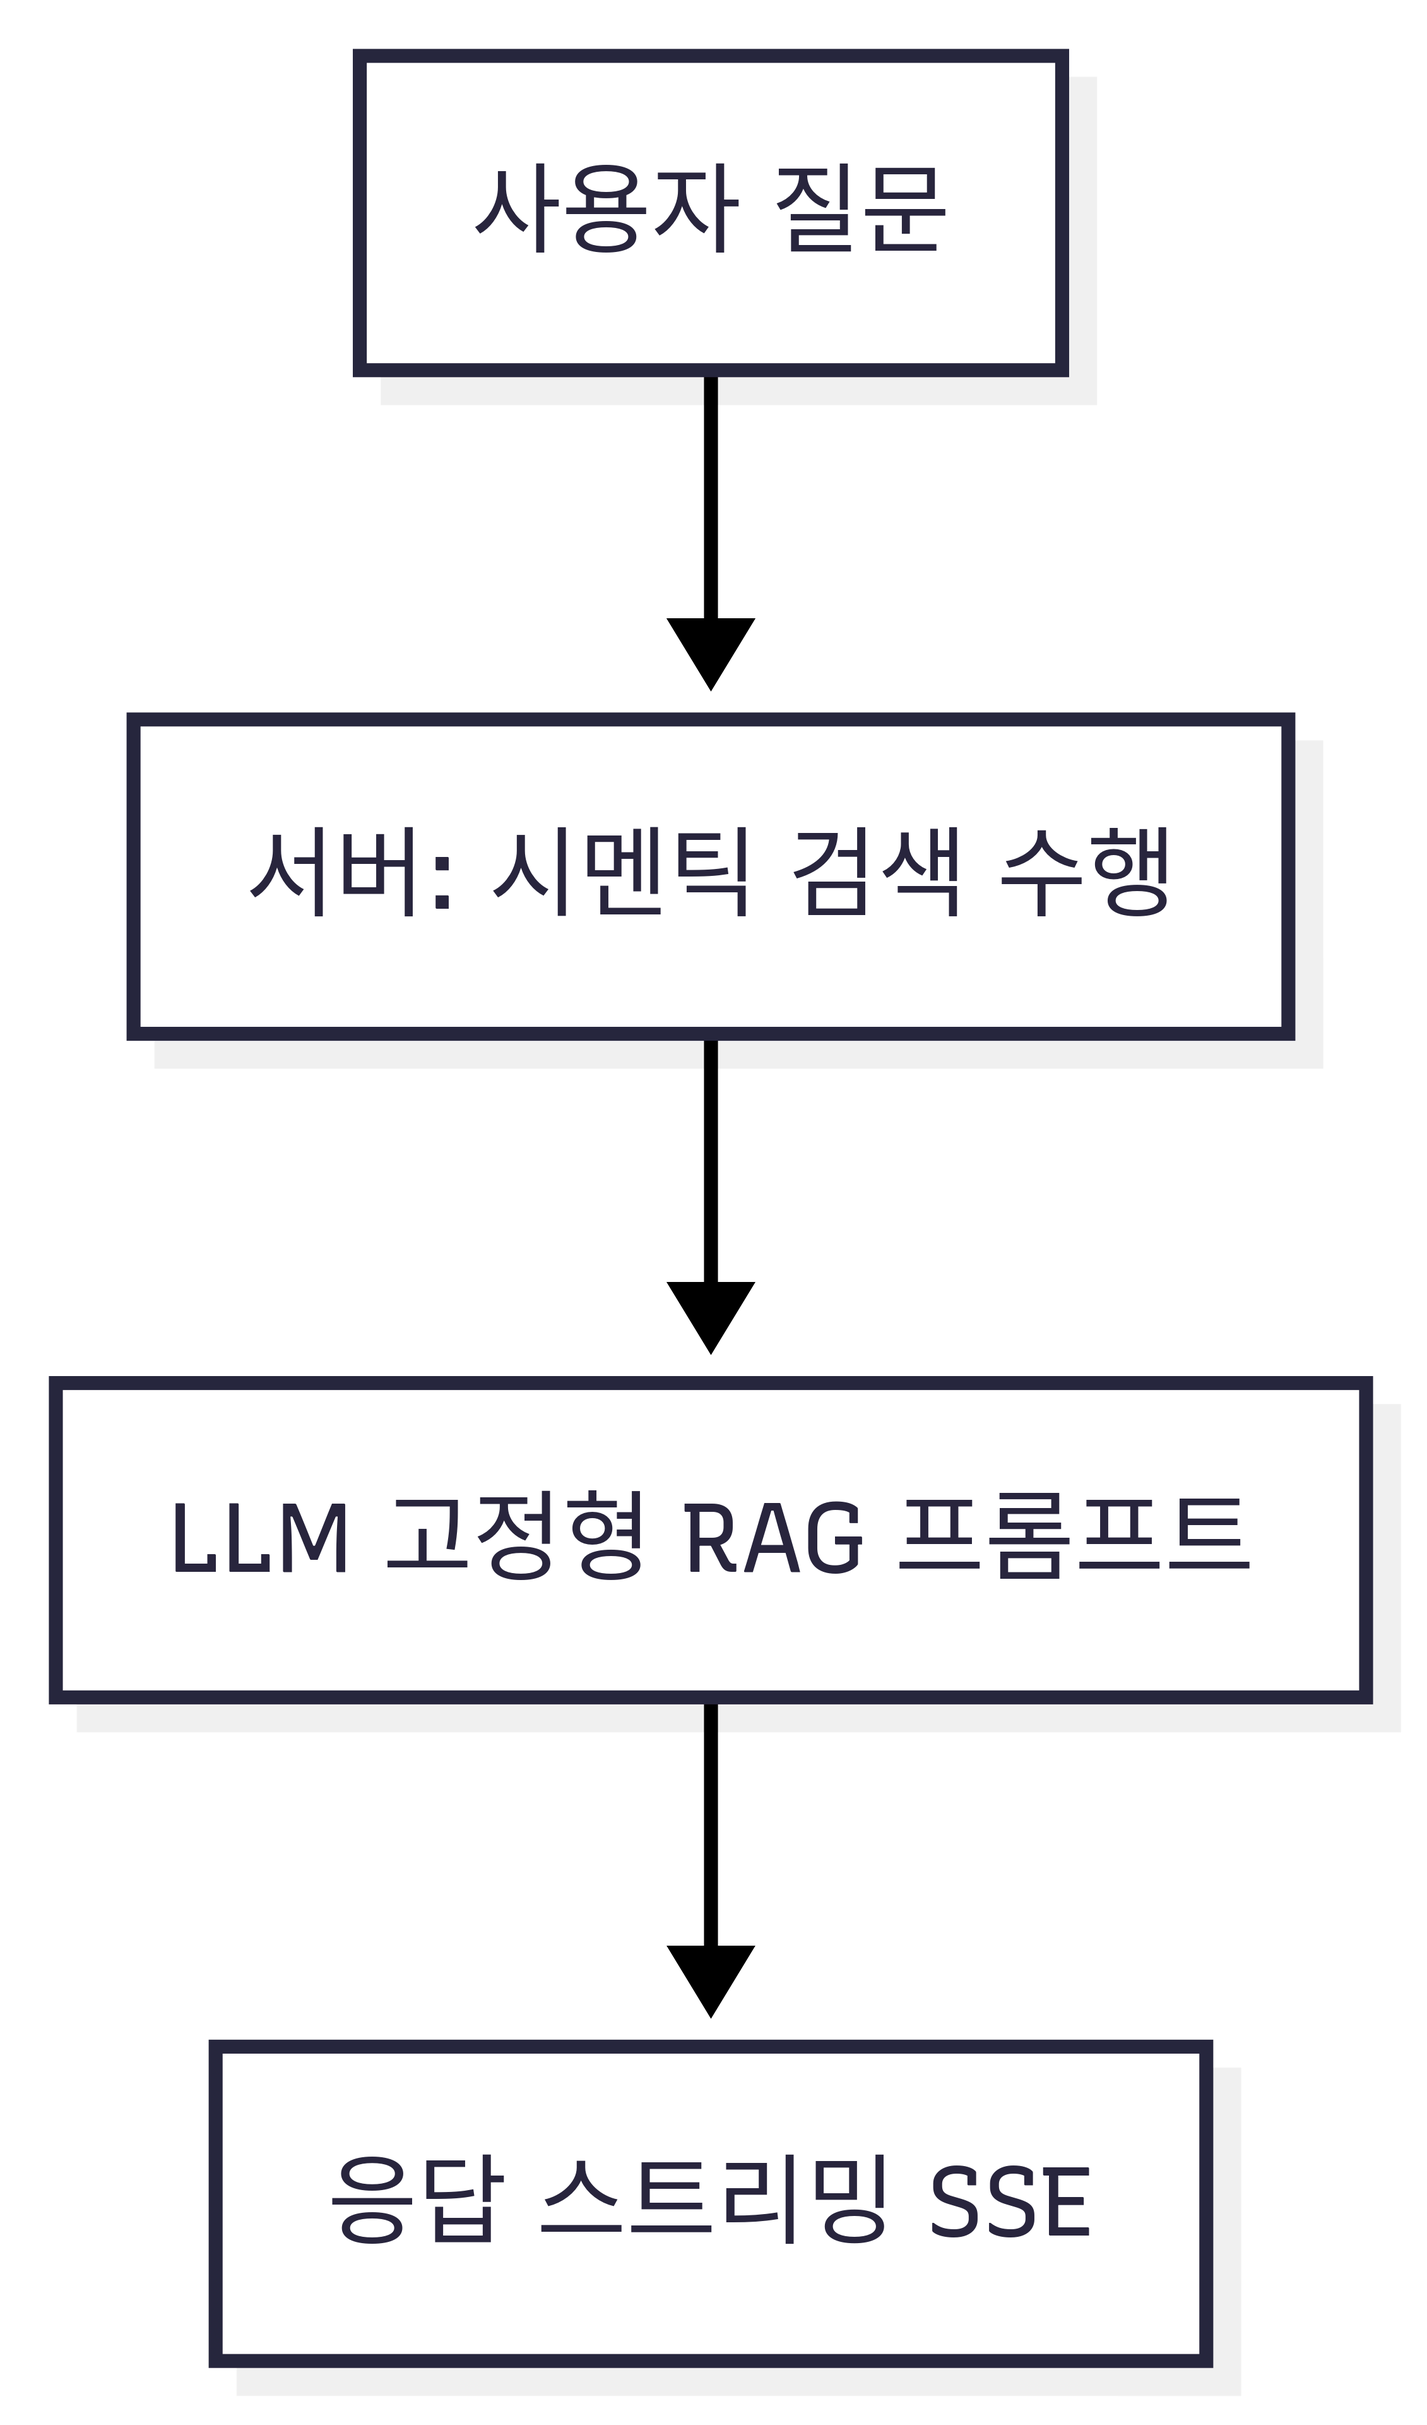
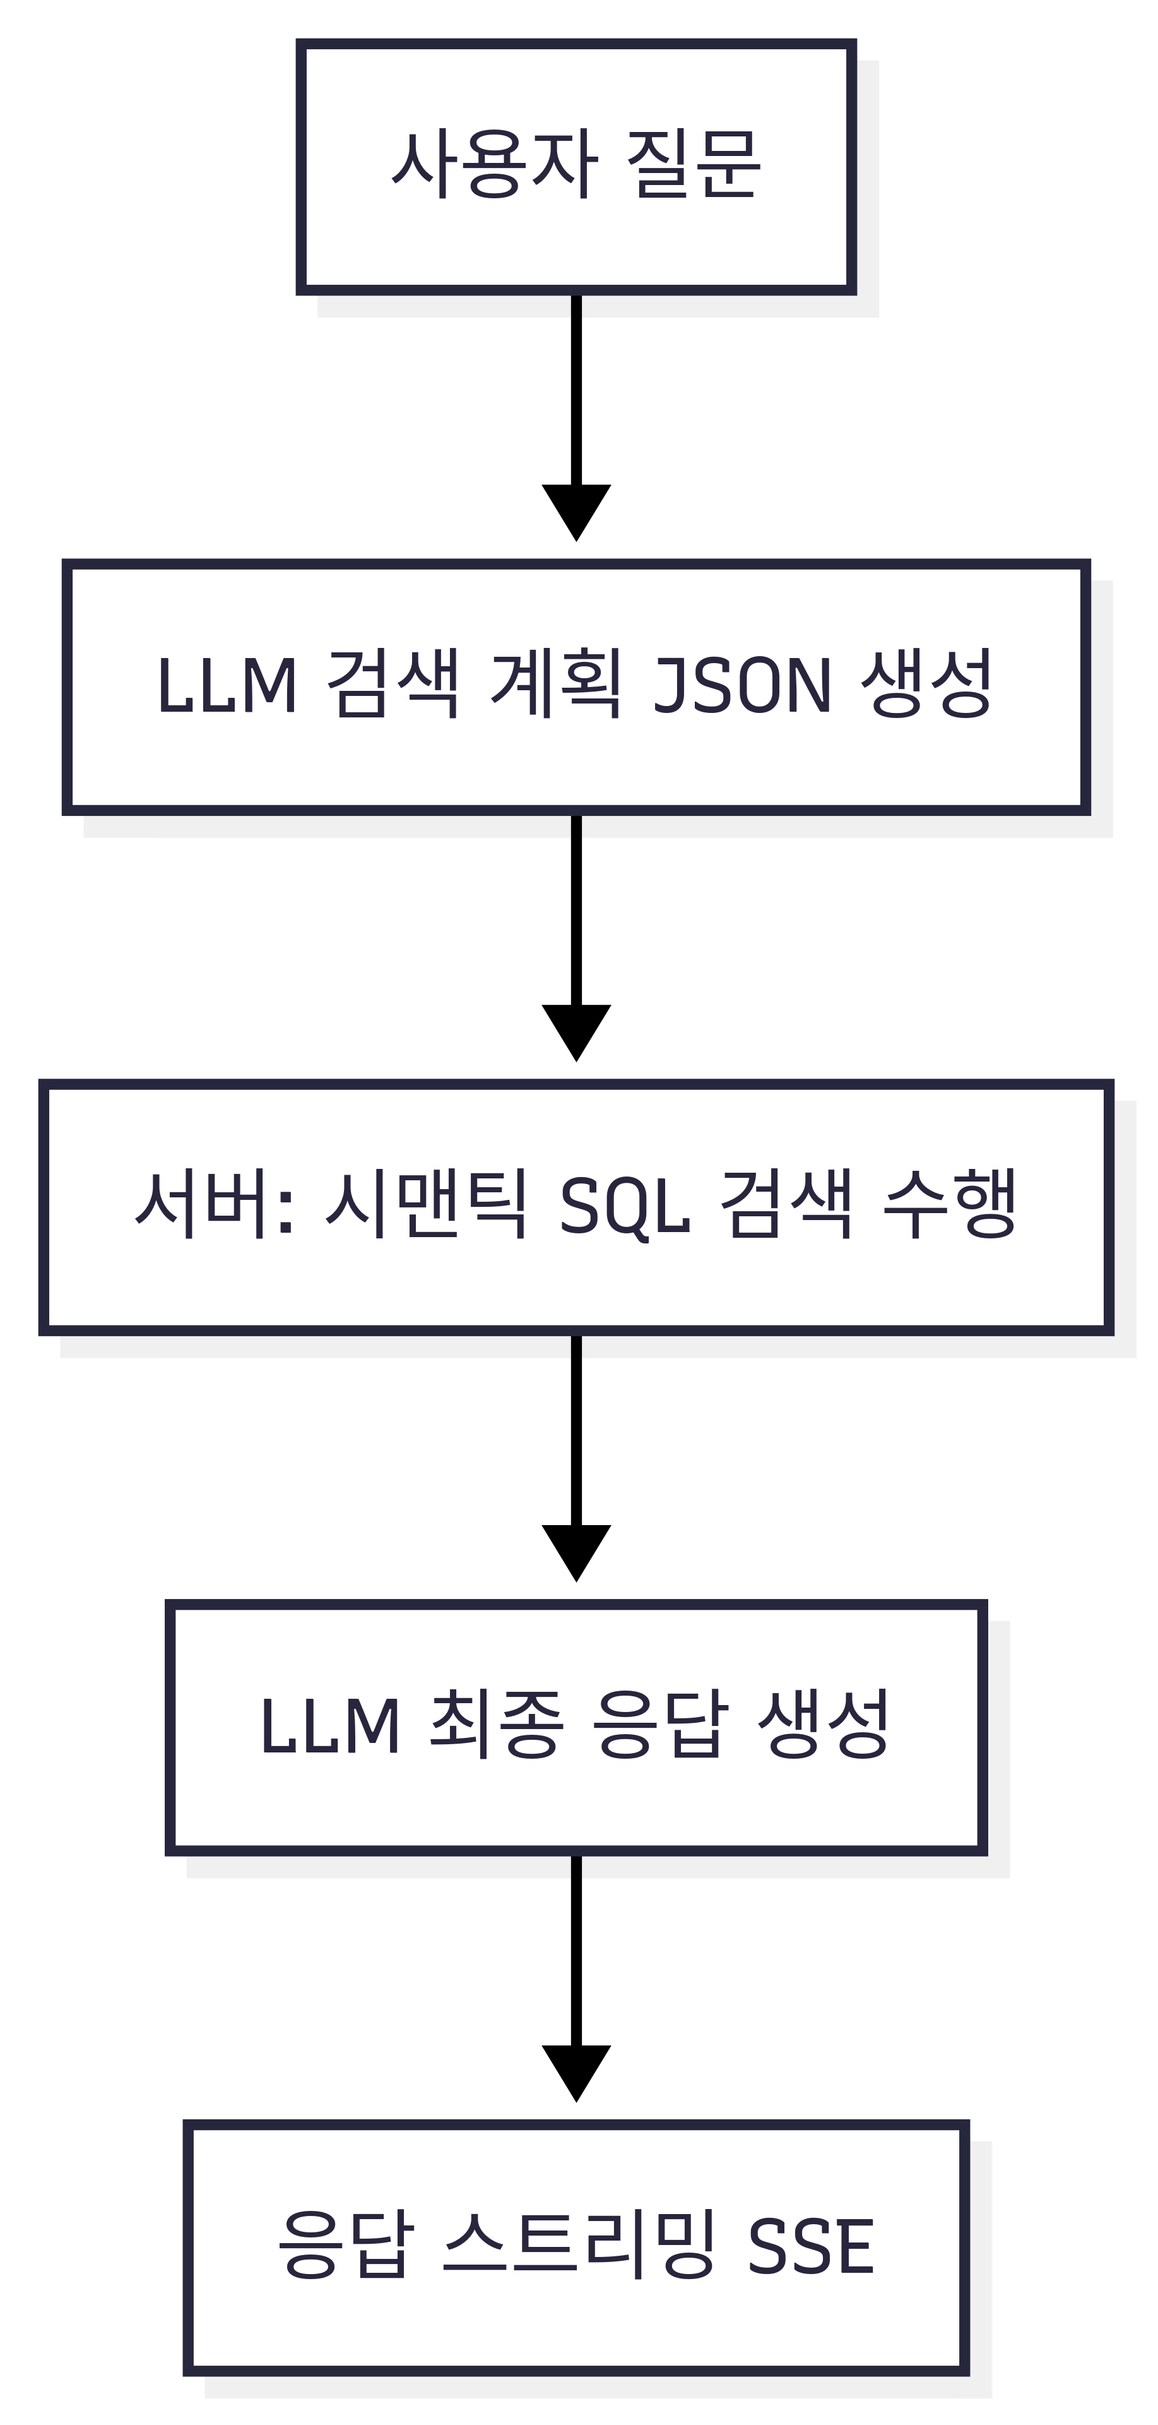
📝 v2문서 최신화

Changed region(s): [[0.0311, 0.1875, 0.9629, 1.0], [0.2485, 0.0, 0.7766, 0.1562]]

diff --git a/docs/reports/REPORT-askv2.md b/docs/reports/REPORT-askv2.md
@@ -1,103 +1,113 @@
-# 보고서: /ai/v2/ask — 동작 방식, 하이브리드 서치, 검색 계획
+# 보고서: /ai/v2/ask — 구조, 동작, 하이브리드 검색 계획
 
 ## 1) 개요
 - 목표: v1의 고정형 RAG 한계를 보완. “검색 계획(JSON)”을 LLM이 생성 → 서버가 안전하게 표준화/검증 → 시맨틱/하이브리드 검색 수행 → 최종 답변을 SSE로 스트리밍.
-- 상태: `POST /ai/v2/ask`(SSE) 운영 중. v1은 유지하며, v2에서 계획 기반 검색·관측성을 추가.
+- 상태: `POST /ai/v2/ask`(SSE) 운영 중. v1은 유지하며, v2에서 계획 기반 검색과 관측성을 강화.
 
-## 2) v1의 한계와 v2가 해결한 점
-- 고정 파라미터 문제 → 동적 계획
-  - v1: 임계치(0.2), LIMIT(5), 가중치(0.7/0.3) 고정.
-  - v2: `top_k`, `threshold`, `weights`, `sort`, `limit`을 계획으로 동적 제어(서버가 범위 강제).
-- 시간/정렬 의도 미흡 → 자연어 시간 해석
-  - v1: “최근/지난주/9월/작년” 반영 불가.
-  - v2: `filters.time`에 상대/월/분기/연도 표현 → `KST 절대범위(from/to)`로 변환해 쿼리에 반영.
-- 컨텍스트 제어/비용 → 토큰 예산 컨트롤
-  - v1: 컨텍스트 폭 조절 한계.
-  - v2: `top_k`(리콜 폭), `limit`(노출 개수; 현재 미적용)로 조절 가능. 향후 dedupe/limit 적용 예정.
-- 관측성 부족 → SSE 메타 이벤트 확장
-  - v1: 검색 근거 불투명.
-  - v2: `search_plan`, `rewrite`, `keywords`, `hybrid_result`, `search_result` 등으로 의사결정 가시화.
-- 검색 방식 단일 → 하이브리드 도입
+## 2) v1의 한계와 v2 도입 효과
+- 고정 파라미터 → 동적 계획
+  - v1: 임계치(0.2), LIMIT(5), 가중치(0.7/0.3) 등 고정.
+  - v2: `top_k`, `threshold`, `weights`, `sort`, `limit`을 질문/맥락에 맞게 동적 제어(서버가 범위 강제).
+- 시간/정렬 의도 미반영 → 자연어 시간 해석
+  - v1: “최근/지난주/9월/작년” 같은 시간 의도 반영 불가.
+  - v2: `filters.time`(상대/월/분기/연도)을 받아 `KST 절대범위(from/to)`로 변환해 쿼리에 반영.
+- 리콜/정밀도 균형 한계 → 하이브리드
   - v1: 임베딩 기반 RAG만.
-  - v2: 벡터+텍스트 하이브리드 융합으로 재현율/정확도 개선.
+  - v2: 벡터+텍스트 하이브리드 융합으로 재현율 향상 및 키워드 민감 질의 대응.
+- 관측성 부족 → SSE 메타 이벤트
+  - v1: 검색/선택 근거가 불투명.
+  - v2: `search_plan`, `rewrite`, `keywords`, `hybrid_result`, `search_result` 등으로 의사결정 가시화.
+- 안전성/정합성
+  - v1: 클라이언트 입력 이탈 감지 어려움.
+  - v2: JSON Schema(strict) + Zod 검증 + 필터 강제 주입으로 안전한 실행계획만 수행.
+- 비용/토큰 관리
+  - v1: 고정 상수로 세밀한 제어 어려움.
+  - v2: `top_k`/향후 `limit`/dedupe로 토큰 예산을 상황별 최적화 가능.
 
-![alt text](../structureDiagram/askV1-structure.png)
+![v1 구조](../structureDiagram/askV1-structure.png)
 
 ## 3) 검색 계획(Planner)과 안전 표준화
-- 스키마(`src/types/ai.v2.types.ts`)
-  - `mode`: `rag|post`
-  - `top_k`(1..10), `threshold`(0..1), `weights`(`chunk`,`title`)
+- 타입/스키마(`src/types/ai.v2.types.ts`)
+  - `mode`: `rag | post`
+  - `top_k`(1..10), `threshold`(0..1), `weights`(`chunk`,`title`; 합 1로 정규화)
   - `filters`: `{ user_id, category_ids?, post_id?, time? }`
-  - `sort`: `created_at_desc|created_at_asc`, `limit`(1..20)
-  - `hybrid`: `{ enabled, alpha, max_rewrites, max_keywords }`, `rewrites`: string[], `keywords`: string[]
-- 프롬프트 규칙 강화(`src/prompts/qa.v2.prompts.ts`)
+  - `sort`: `created_at_desc | created_at_asc`, `limit`(1..20)
+  - `hybrid`: `{ enabled, retrieval_bias, alpha?, max_rewrites, max_keywords }`
+  - `rewrites`: string[], `keywords`: string[]
+- 프롬프트 규칙(`src/prompts/qa.v2.prompts.ts`)
   - 서버 제공 필터(`user_id`, `category_id`, `post_id`)는 고정(FIXED)이며 변경 금지.
   - 플래너는 `top_k`, `threshold`, `filters.time`, `sort`, `limit`, `hybrid`, `rewrites`, `keywords`만 결정.
+  - 하이브리드 시 `hybrid.retrieval_bias ∈ {lexical, balanced, semantic}` 라벨을 결정.
 - 생성/정규화(`src/services/search-plan.service.ts`)
-  - OpenAI Responses API(JSON Schema strict) → Zod 파싱/검증.
-  - 값 범위 강제, 가중치 합 1로 정규화, 불용어/중복 제거로 `rewrites`/`keywords` 정제.
+  - OpenAI Responses(JSON Schema strict) → Zod 파싱/검증.
+  - 값 범위 강제, `weights` 합 1로 정규화.
+  - 불용어/중복 제거로 `rewrites`/`keywords` 정제.
   - 시간 필터를 `KST 절대범위`로 변환(`src/utils/time.ts`).
-  - 카테고리/포스트 ID는 서버가 최종 주입(정합성 보장). 실패 시 v1 RAG 폴백.
+  - `retrieval_bias → alpha` 매핑(서버): `lexical→0.3`, `balanced→0.5`, `semantic→0.75`(필요 시 서버가 `alpha`를 직접 클램프/주입).
+  - `user_id/category_id/post_id`는 서버가 최종 주입(정합성 보장). 실패 시 v1 RAG 폴백.
 
 ## 4) 검색 엔진: 시맨틱 + 하이브리드
 - 시맨틱(`src/services/semantic-search.service.ts` → `findSimilarChunksV2`)
   - 입력: 질문 임베딩, `threshold/top_k/weights/sort`, 카테고리/시간 필터.
   - 점수: `w_chunk*(1 - chunk_dist) + w_title*(1 - title_dist)`.
-  - SQL: 파라미터 바인딩/화이트리스트 템플릿.
+  - 저장소: `postRepository.findSimilarChunksV2(...)` 호출, 파라미터 바인딩 기반 안전 쿼리.
 - 하이브리드(`src/services/hybrid-search.service.ts`)
-  - 입력: 원 질문 + `rewrites`(재작성), `keywords`(키워드), `alpha`.
-  - 벡터 경로: 각 query 임베딩 → 시맨틱 검색 → 동일 청크는 최대 vecScore로 병합.
-  - 텍스트 경로: ILIKE/텍스트 유사도 기반 `textSearchChunksV2` → 최대 textScore로 병합.
-  - 정규화/융합: min-max 정규화 후 `score = alpha*vec + (1-alpha)*text`로 랭킹 → 상위 `top_k` 반환.
-  - SSE: `rewrite`, `keywords`, `hybrid_result` 이벤트로 중간 산출물/요약 제공.
-- 폴백: 하이브리드 결과가 비어있으면 시맨틱 경로로 재시도.
+  - 입력: 원 질문 + `rewrites`(재작성), `keywords`(키워드), `alpha`(서버 매핑).
+  - 벡터 경로: 각 query 임베딩 → 시맨틱 후보 수집 → 동일 청크는 최대 vecScore로 병합.
+  - 텍스트 경로: `textSearchChunksV2`(키워드/질의 기반 텍스트 검색) → 동일 청크는 최대 textScore로 병합.
+  - 정규화/융합: min-max 정규화 후 `score = alpha*vec + (1-alpha)*text`로 결합 → 상위 `top_k`를 반환.
+  - 폴백: 하이브리드 결과 비었을 때 시맨틱 경로로 재시도.
+  - SSE 메타: `rewrite`, `keywords`, `hybrid_result`로 중간 산출물/요약을 별도 송신.
 
-![alt text](../structureDiagram/askV2-structure.png)
+![v2 구조](../structureDiagram/askV2-structure.png)
 
 ## 5) 파이프라인(SSE 이벤트)과 모드
-- 컨트롤러/오케스트레이터
-  - `src/controllers/ai.v2.controller.ts`: SSE 헤더 설정, 서비스 파이프.
-  - `src/services/qa.v2.service.ts`: 계획 생성→검색→LLM 호출까지 오케스트레이션.
-- post 모드(post_id 존재)
-  - 접근 정책: `post.is_public=false`면 소유자만(403), `true`면 공개. 미존재 404.
-  - 이벤트: `search_plan`(합성) → `search_result` → `exist_in_post_status:true` → `context` → `answer`* → `end`.
-  - 컨텍스트: 단일 글 본문(가공) 사용. RAG/하이브리드 미사용.
+- 컨트롤/오케스트레이션
+  - `src/controllers/ai.v2.controller.ts`: SSE 헤더, 스트림 라우팅.
+  - `src/services/qa.v2.service.ts`: 계획 생성 → 검색 실행(하이브리드/시맨틱) → LLM 호출까지 오케스트레이션.
+- post 모드(`post_id` 존재)
+  - 접근 정책: `post.is_public=false`면 소유자만(403), 미존재 시 404.
+  - 이벤트: `search_plan`(간략) → `search_result` → `exist_in_post_status:true` → `context` → `answer`* → `end`.
+  - 컨텍스트: 해당 글 본문만 사용(전처리 후). 하이브리드 미사용.
 - rag/하이브리드 모드
-  - 일반 흐름:
-    1) `search_plan`(정규화된 계획)
-    2) `rewrite`(선택)
-    3) `keywords`(선택)
-    4) `hybrid_result`(선택)
-    5) `search_result`
-    6) `exist_in_post_status`
-    7) `context`
-    8) `answer`* → `end`
+  - 이벤트 순서(일반):
+    1) `search_plan`: 정규화된 계획(JSON). `hybrid.enabled`가 true면 `retrieval_bias`와 서버 계산 `alpha`가 함께 포함.
+    2) `rewrite`(선택): 계획의 재작성 질의 목록.
+    3) `keywords`(선택): 계획의 핵심 키워드 목록.
+    4) `hybrid_result`(선택): 하이브리드 후보 요약.
+    5) `search_result`: 최종 컨텍스트 요약.
+    6) `exist_in_post_status`: `true | false`.
+    7) `context`: `[ { postId, postTitle }, ... ]`.
+    8) `answer`*: 모델 부분 응답.
+    9) `end`: 종료 시그널(`[DONE]`).
   - 오류 시: `error` 송신.
 
 ## 6) LLM/비용/프로바이더
 - 기본 모델: `openai/gpt-5-mini`(환경변수로 변경 가능), 임베딩: `text-embedding-3-small`.
-- OpenAI: GPT‑5 Responses API 스트리밍 우선, 실패 시 논스트림/Chat Completions 폴백. 툴콜 인자도 `answer` 청크로 송신.
-- Gemini: 현재 논스트림 결과를 SSE 청크로 전송.
-- 비용 로깅: 프롬프트/완료 토큰, 추정 비용 로깅(`src/llm/index.ts`).
+- OpenAI: Responses API 스트리밍 우선, 실패 시 논스트림/Chat Completions 폴백.
+- Gemini: 현재 논스트림 결과를 SSE 청크로 분할 전송.
+- 비용 로깅: 프롬프트/완료 토큰 및 추정 비용 로깅(`src/llm/*`).
+- 툴콜: 컨텍스트 부족 시 `report_content_insufficient` 툴을 통해 안내 문구 유도.
 
 ## 7) 보안·정합성
-- JSON Schema + Zod 검증 + 범위 강제.
-- 서버가 `user_id/category_id/post_id` 필터를 최종 강제(LLM 변조 무력화).
-- SQL 파라미터 바인딩/템플릿 화이트리스트.
-- SSE 데이터 최소화(제목/ID/요약만).
-- post 모드 접근 제어: `is_public` 조건 기반.
+- 생성 계획 방어선: JSON Schema(strict) + Zod 검증 + 서버 측 범위 강제.
+- 필터 주입: `user_id/category_id/post_id`는 서버가 최종 주입하여 일탈 방지.
+- SQL 안전성: 파라미터 바인딩/화이트리스트 템플릿.
+- 데이터 최소화: SSE에는 ID/제목 위주 요약만 전송.
+- 접근 제어: post 모드에서 `is_public`/소유자 검사.
 
 ## 8) 현재 동작과 한계(향후 과제)
 - 현재
   - `top_k`로 리콜 폭 제어, 시맨틱/하이브리드 모두 적용.
-  - `limit`은 계획에 있으나 컨텍스트 축약에는 아직 미적용(Top‑K 청크를 그대로 사용).
-  - 청크 기준 컨텍스트로 포스트 중복 가능.
+  - `limit`은 계획에는 존재하나 컨텍스트 축약에는 미적용(향후 포스트 단위 dedupe와 함께 적용 예정).
+  - 청크 단위 랭킹 → 동일 포스트 다수 노출 가능.
   - 카테고리 배열은 첫 항목만 반영.
 - 향후
-  - 포스트 단위 dedupe + `limit` 적용(윈도우 함수 등)으로 비용/다양성 균형.
-  - 다중 카테고리 필터 완전 반영.
-  - `search_sql`/`search_debug` 이벤트로 쿼리/파라미터 노출.
-  - 텍스트 경로 고도화(순위 함수/전처리/키워드 확장), 모델 프로바이더 다양화.
+  - 포스트 단위 dedupe + `limit` 적용으로 다양성/비용 균형.
+  - `retrieval_bias → alpha` 매핑의 AB 테스트/텔레메트리 튜닝(예: {0.25,0.5,0.8}).
+  - 점수 정규화 고도화(z-score/quantile) 및 RRF 옵션 도입 검토.
+  - 텍스트 경로 향상(전처리/순위 함수/키워드 확장) 및 프로바이더 다변화.
+  - SSE `search_sql`/`search_debug`로 투명성 강화.
 
 ## 9) 파일 맵(핵심)
 - 라우트/컨트롤러: `src/routes/ai.v2.routes.ts`, `src/controllers/ai.v2.controller.ts`, `src/app.ts`
@@ -118,7 +128,7 @@
 }
 ```
 - 이벤트 예시
-  - `search_plan`(rag, time=지난달, top_k/threshold/weights/sort/limit/hybrid 포함)
+  - `search_plan`(rag, time=지난달, top_k/threshold/weights/sort/limit/hybrid 포함; hybrid.retrieval_bias와 서버 주입 alpha 함께 표기)
   - `rewrite`/`keywords`(선택)
   - `hybrid_result`(선택)
   - `search_result` → `exist_in_post_status` → `context` → `answer`* → `end`

diff --git a/docs/api.md b/docs/api.md
@@ -97,7 +97,9 @@
   - `post_id`가 있으면 post 모드(단일 글 컨텍스트)로 처리하며, 간략한 `search_plan`/`search_result` 이벤트 후 본문 기반 답변을 스트리밍합니다.
 - 하이브리드 검색(벡터+텍스트)
   - 계획에 `hybrid.enabled: true`인 경우 활성화됩니다.
-  - `rewrites`(재작성 질의)와 `keywords`(핵심 키워드)를 생성하여 벡터/텍스트 두 경로로 후보를 수집하고, `alpha` 가중으로 점수를 융합해 상위 `top_k`를 선택합니다.
+  - `rewrites`(재작성 질의)와 `keywords`(핵심 키워드)를 생성하여 벡터/텍스트 두 경로로 후보를 수집하고, `hybrid.retrieval_bias` 라벨을 서버가 `alpha` 값으로 매핑해 점수를 융합하여 상위 `top_k`를 선택합니다.
+    - 매핑(기본): `lexical → 0.3`, `balanced → 0.5`, `semantic → 0.75`
+    - 정규화/결합식: `score = alpha*vec + (1-alpha)*text` (min-max 정규화 후)
   - SSE로 `rewrite`, `keywords`, `hybrid_result` 이벤트가 순차 송신됩니다. 하이브리드 결과가 없으면 시맨틱 검색으로 폴백합니다.
 - SSE 이벤트 순서(일반적인 흐름)
   1) `search_plan`: 정규화된 검색 계획(JSON)
@@ -115,12 +117,14 @@
          },
          "sort": "created_at_desc",
          "limit": 5,
-         "hybrid": { "enabled": true, "alpha": 0.7, "max_rewrites": 3, "max_keywords": 6 },
+         "hybrid": { "enabled": true, "retrieval_bias": "balanced", "alpha": 0.5, "max_rewrites": 3, "max_keywords": 6 },
          "rewrites": ["프로젝트 X 요약", "프로젝트 X 핵심"],
          "keywords": ["프로젝트 X", "핵심", "요약"]
        }
        ```
-       - 비고: 카테고리는 단일 값만 지원하며 서버는 첫 번째 항목만 사용합니다.
+       - 비고:
+         - `hybrid.retrieval_bias`는 LLM이 결정하는 라벨이며, 서버는 이를 `alpha`로 변환해 사용합니다.
+         - 카테고리는 단일 값만 지원하며 서버는 첫 번째 항목만 사용합니다.
        - post 모드에서는 간략한 형태(`{ mode: "post", filters: { post_id, user_id } }`)가 송신될 수 있습니다.
   2) (하이브리드 사용 시) `rewrite`: `string[]`
   3) (하이브리드 사용 시) `keywords`: `string[]`
